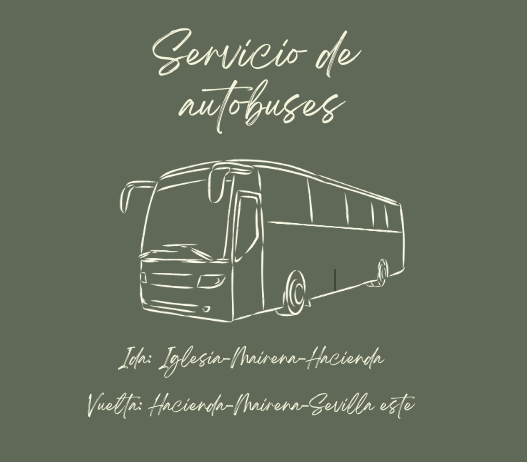
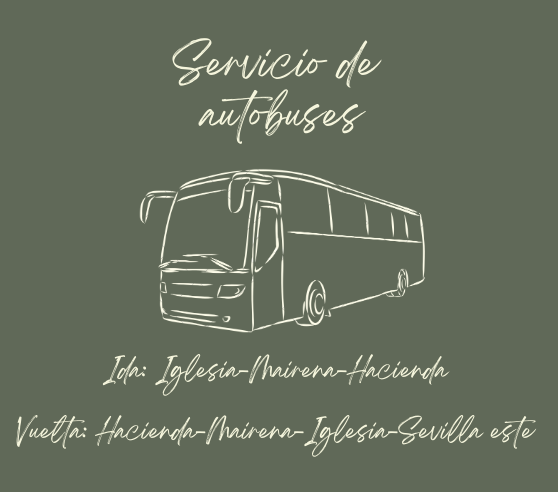
Varios cambios

diff --git a/index.css b/index.css
@@ -105,15 +105,21 @@ body {
 }
 
 .foto5 {
-    width: 400px;
+    width: 450px;
     height: auto;
-    margin-top: -40px; /* Ajusta el espacio entre la imagen y el texto superior */
+    margin-bottom: -15px; /* Ajusta el espacio entre la imagen y el texto superior */
 }
 
 .foto6 {
     width: 300px;
     height: auto;
     margin-top: -10px; /* Ajusta el espacio entre la imagen y el texto superior */
+}
+
+.foto7 {
+    width: 300px;
+    height: auto;
+    margin-top: -40px; /* Ajusta el espacio entre la imagen y el texto superior */
 }
 
 .lugar {
@@ -127,14 +133,14 @@ body {
     text-align: center;
 }
 
-label[for="attendance"], label[for="bus"], label[for="bus-location"] {
+label[for="attendance"], label[for="bus"], label[for="bus-location"], label[for="bus-location2"] {
     display: block;
     font-size: 18px;
     margin-bottom: 8px;
     color: #F5F5DC; /* Color de la fuente F5F5DC para las preguntas */
 }
 
-#attendance, #guests, #name, #intolerancia, #bus, #bus-location {
+#attendance, #guests, #name, #intolerancia, #bus, #bus-location, #bus-location2 {
     border-radius: 10px;
     background-color: #F5F5DC; /* Fondo del color especificado */
     padding: 10px;
@@ -144,6 +150,15 @@ label[for="attendance"], label[for="bus"], label[for="bus-location"] {
     box-sizing: border-box; /* Para incluir el padding dentro del tamaño total */
 }
 
+#bus-location {
+    margin-bottom: 20px; /* Añade 20px de margen inferior */
+}
+
+#bus-location2 {
+    margin-top: 10px; /* Opcional para mantener consistencia con otros campos */
+}
+
+
 #attendance, #bus {
     margin-bottom: 10px; /* Espacio entre los dos campos de selección */
 }
@@ -152,7 +167,7 @@ label[for="attendance"], label[for="bus"], label[for="bus-location"] {
     margin-top: 10px; /* Espacio entre los elementos de nombre y el de lugar */
 }
 
-#name, #intolerancia, #bus-location {
+#name, #intolerancia, #bus-location, #bus-location2 {
     margin-top: 10px; /* Espacio entre el segundo select y el input */
 }
 

diff --git a/index.html b/index.html
@@ -31,11 +31,13 @@
             <p class="texto-encima">ES80 1465 0100 9717 4491 2963</p>
         </div>
 
+        <img src="images/juncos.png" alt="Foto juncos" class="foto5">
+
     </div>
 
     <div class="content2">
         
-        <img src="images/juncos.png" alt="Foto juncos" class="foto5">
+        <img src="images/anillos.png" alt="Foto anillos" class="foto7">
 
         <form name="wedding-form" type="text" data-netlify="true">
 
@@ -67,7 +69,6 @@
                 <option value="Si">Sí</option>
                 <option value="No">No</option>
             </select>
-        
             <div id="bus-field" style="display: none;">
                 <label for="bus-location">¿Dónde te gustaría coger el autobús de ida?</label>
                 <select name="bus-location" id="bus-location">
@@ -75,6 +76,15 @@
                     <option value="Iglesia">Iglesia</option>
                     <option value="Mairena">Mairena del Aljarafe</option>
                 </select>
+                
+                <label for="bus-location2">¿Dónde te gustaría bajar en el autobús de vuelta?</label>
+                <select name="bus-location2" id="bus-location2">
+                    <option value="">Elige una opción</option>
+                    <option value="Mairena">Mairena</option>
+                    <option value="Iglesia">Iglesia</option>
+                    <option value="S.Este">S.Este</option>
+                </select>
+                
             </div>
             <button type="submit">Enviar</button>
         </form>
